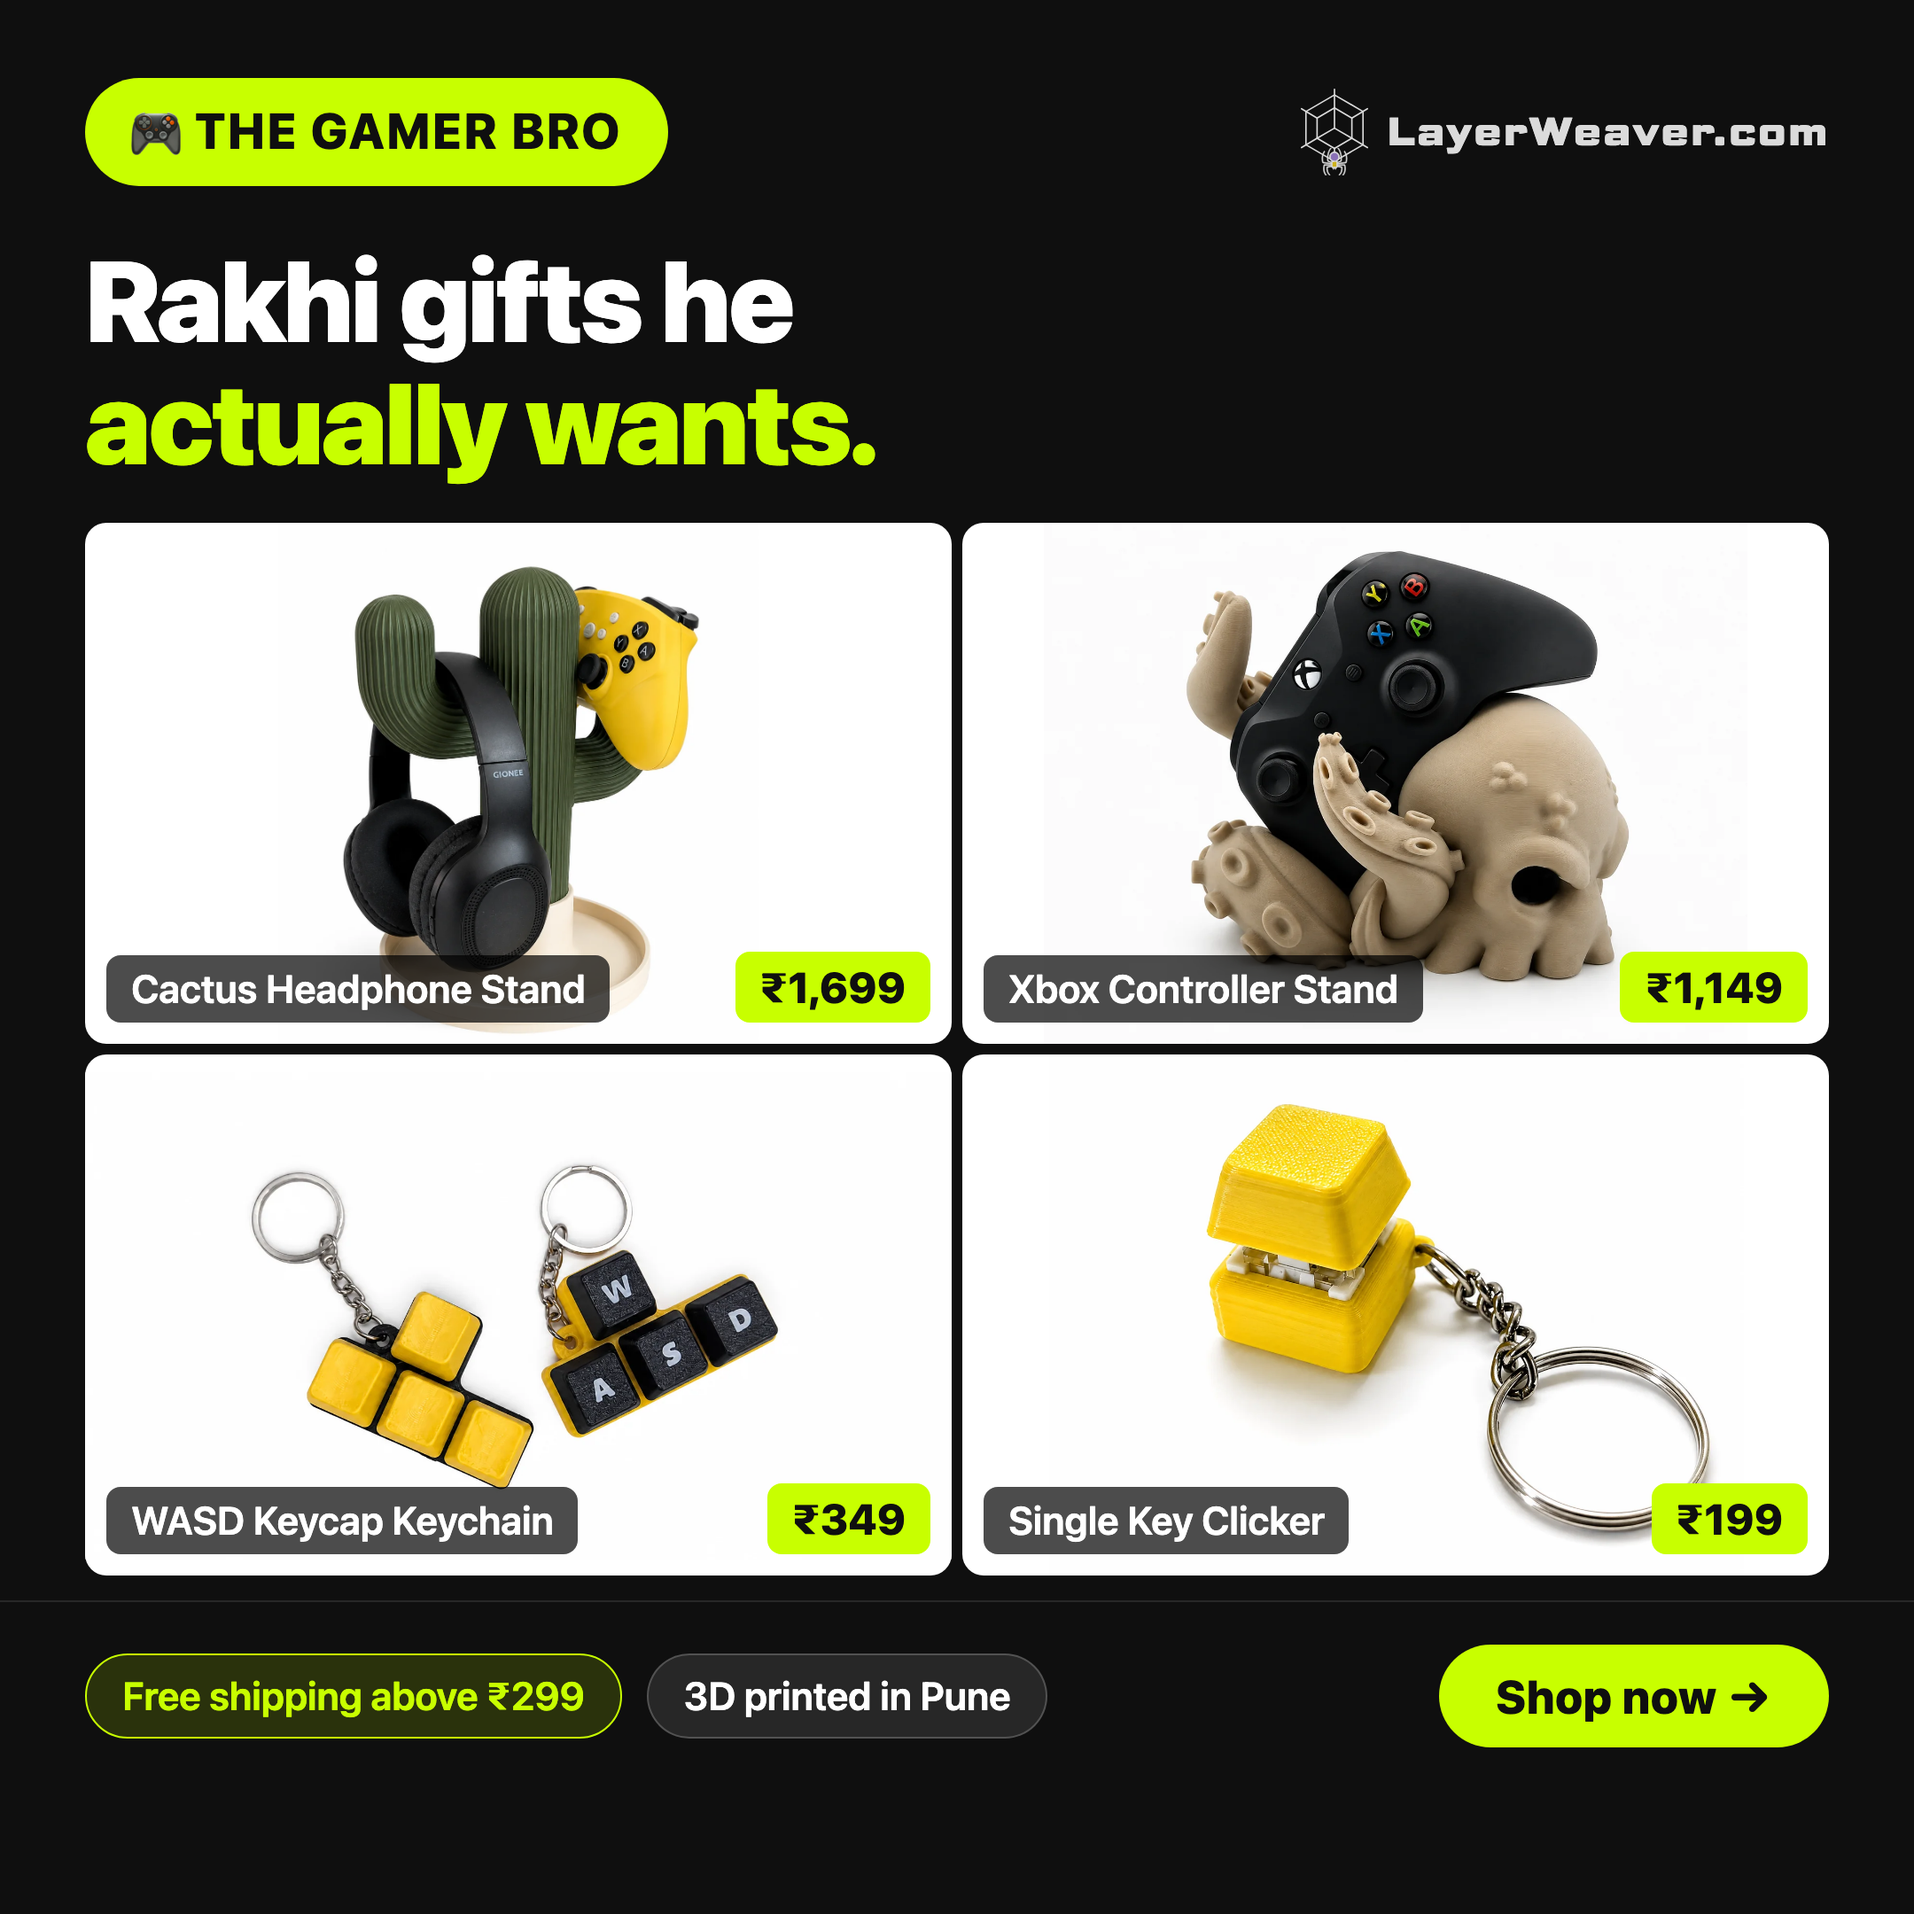
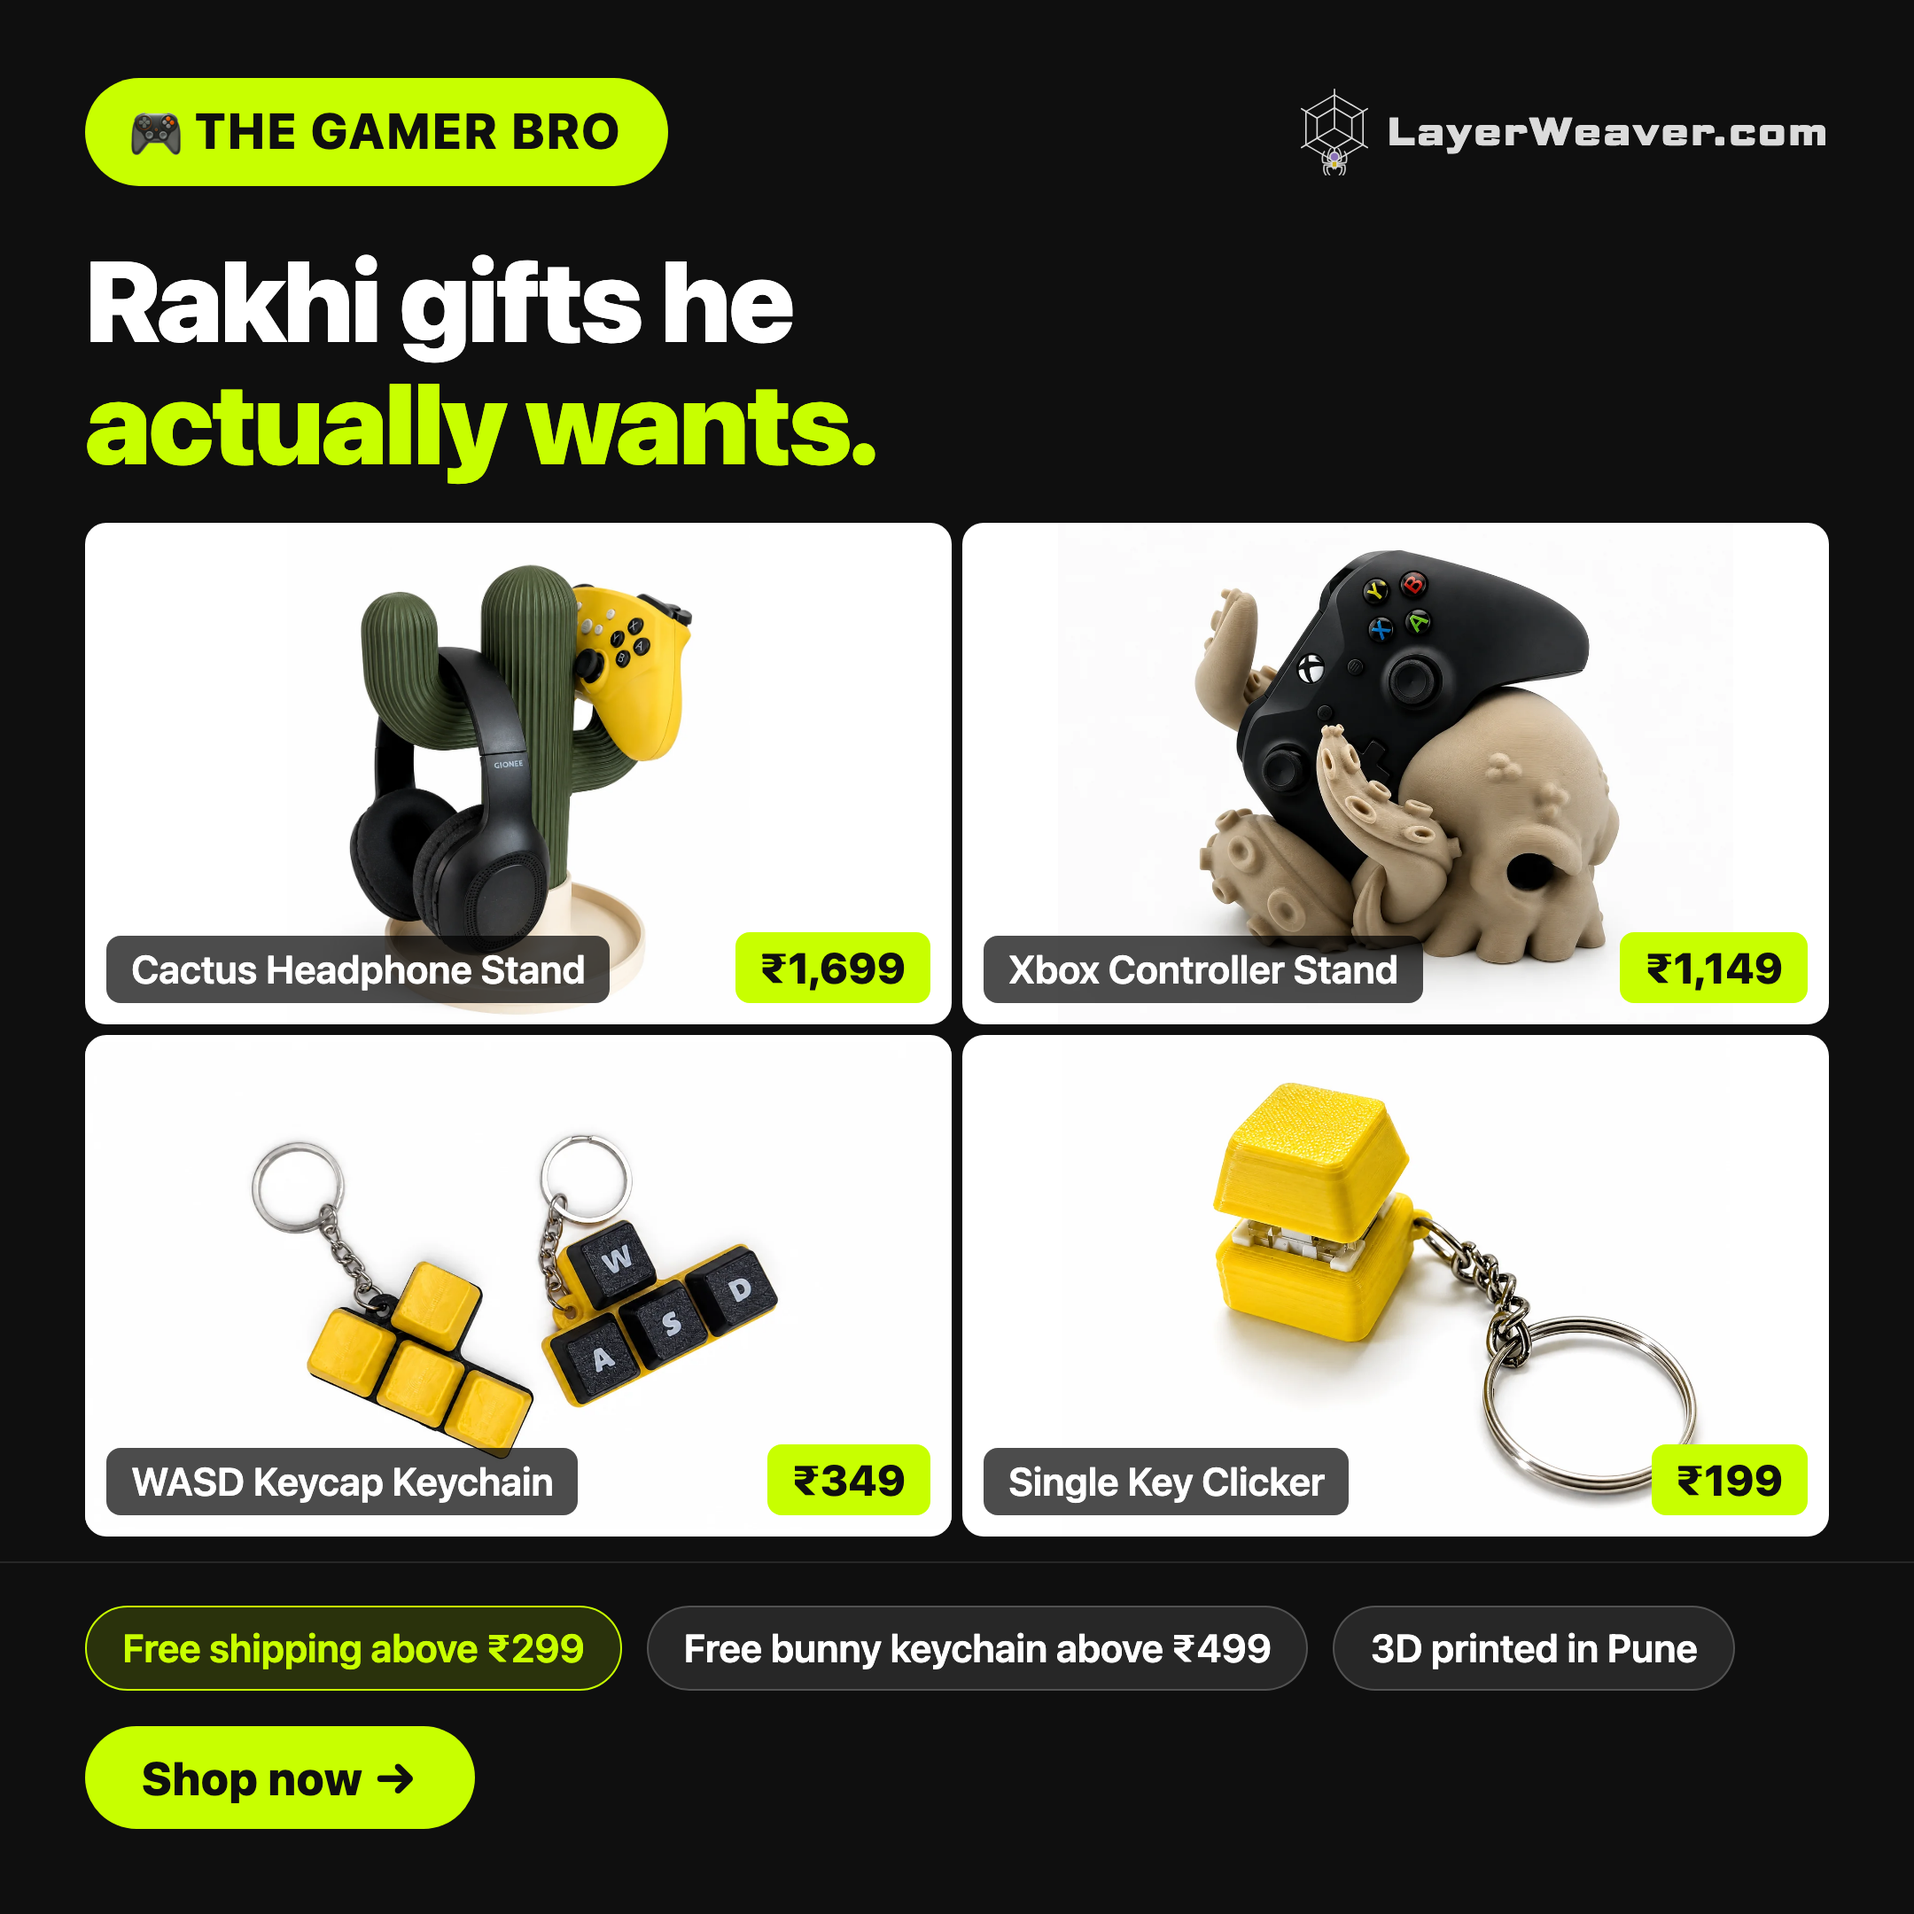
fix: restore consistent 3-pill offer set across all Rakhi ads
ad1 and ad3 lost their third offer pill when "Ships in X days" was
removed earlier. Bring them back in line with ad2/ad4: free shipping,
free bunny keychain, 3D printed in Pune on all four ads.

Changed region(s): [[0.031, 0.2792, 0.9616, 0.9616]]

diff --git a/ads/rakhi-meta-campaign/ad1-gamer-bro/index.html b/ads/rakhi-meta-campaign/ad1-gamer-bro/index.html
@@ -259,6 +259,7 @@
   <div class="bottom-bar">
     <div class="offers">
       <div class="offer-pill highlight">Free shipping above ₹299</div>
+      <div class="offer-pill">Free bunny keychain above ₹499</div>
       <div class="offer-pill">3D printed in Pune</div>
     </div>
     <div class="cta">Shop now →</div>

diff --git a/ads/rakhi-meta-campaign/ad3-little-things/index.html b/ads/rakhi-meta-campaign/ad3-little-things/index.html
@@ -261,6 +261,7 @@
     <div class="offers">
       <div class="offer-pill highlight">Free bunny keychain above ₹499</div>
       <div class="offer-pill">Free shipping above ₹299</div>
+      <div class="offer-pill">3D printed in Pune</div>
     </div>
     <div class="cta">Shop now →</div>
   </div>
